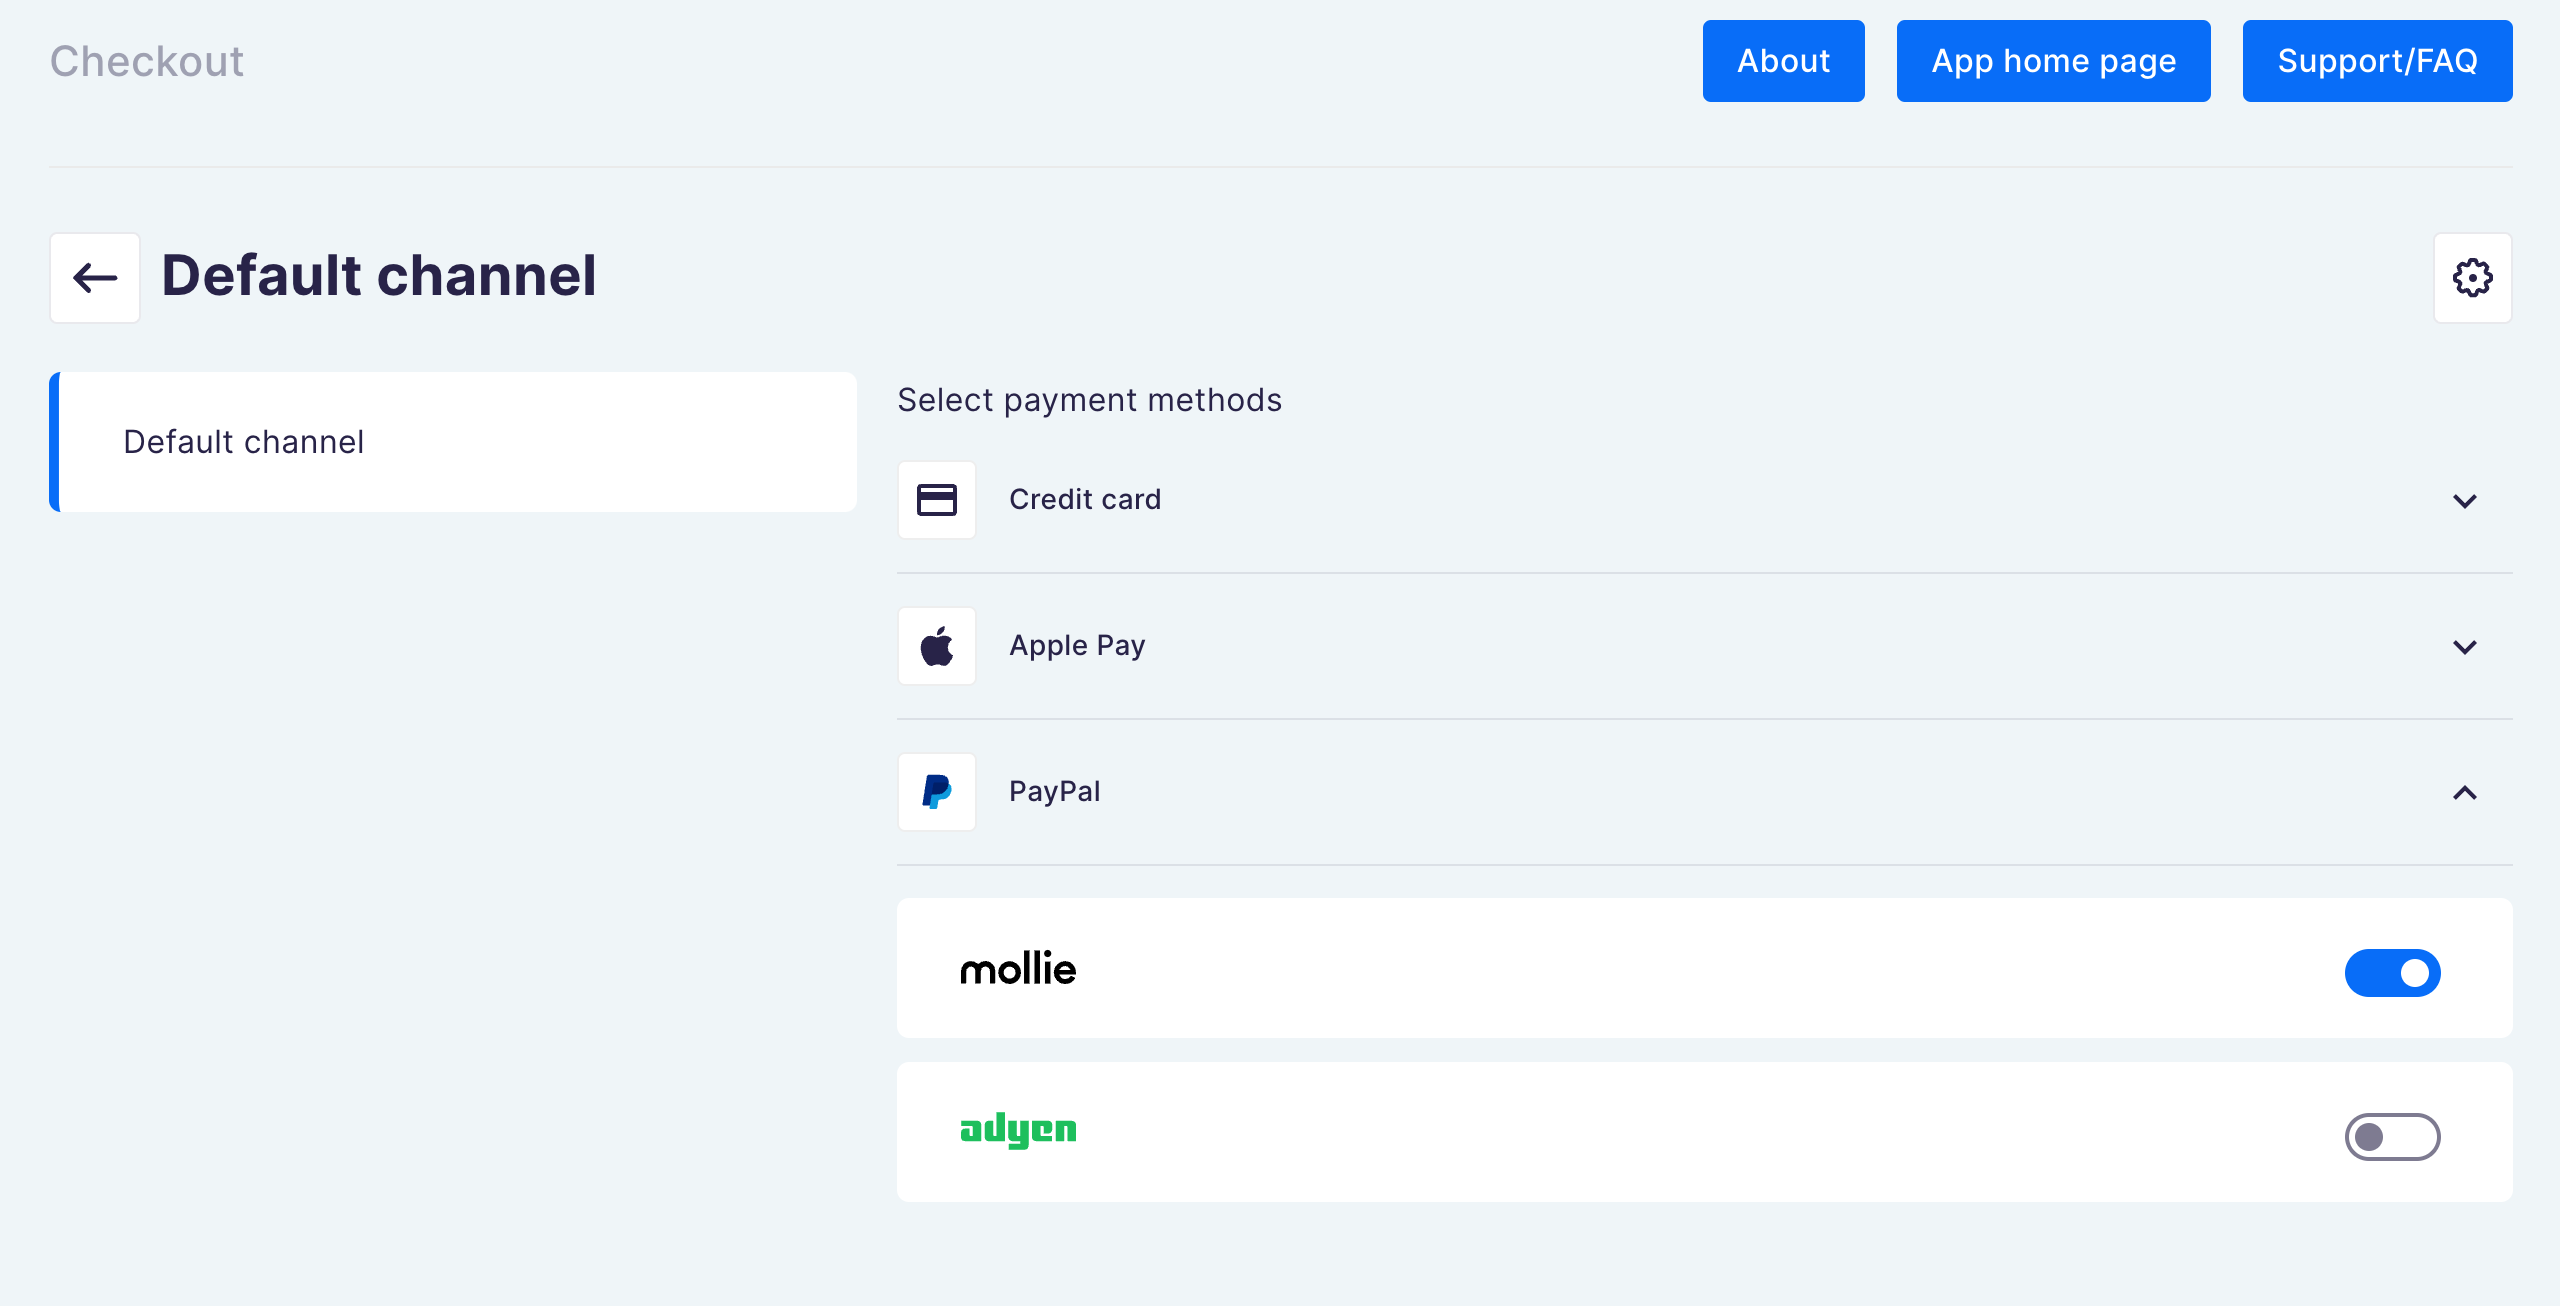
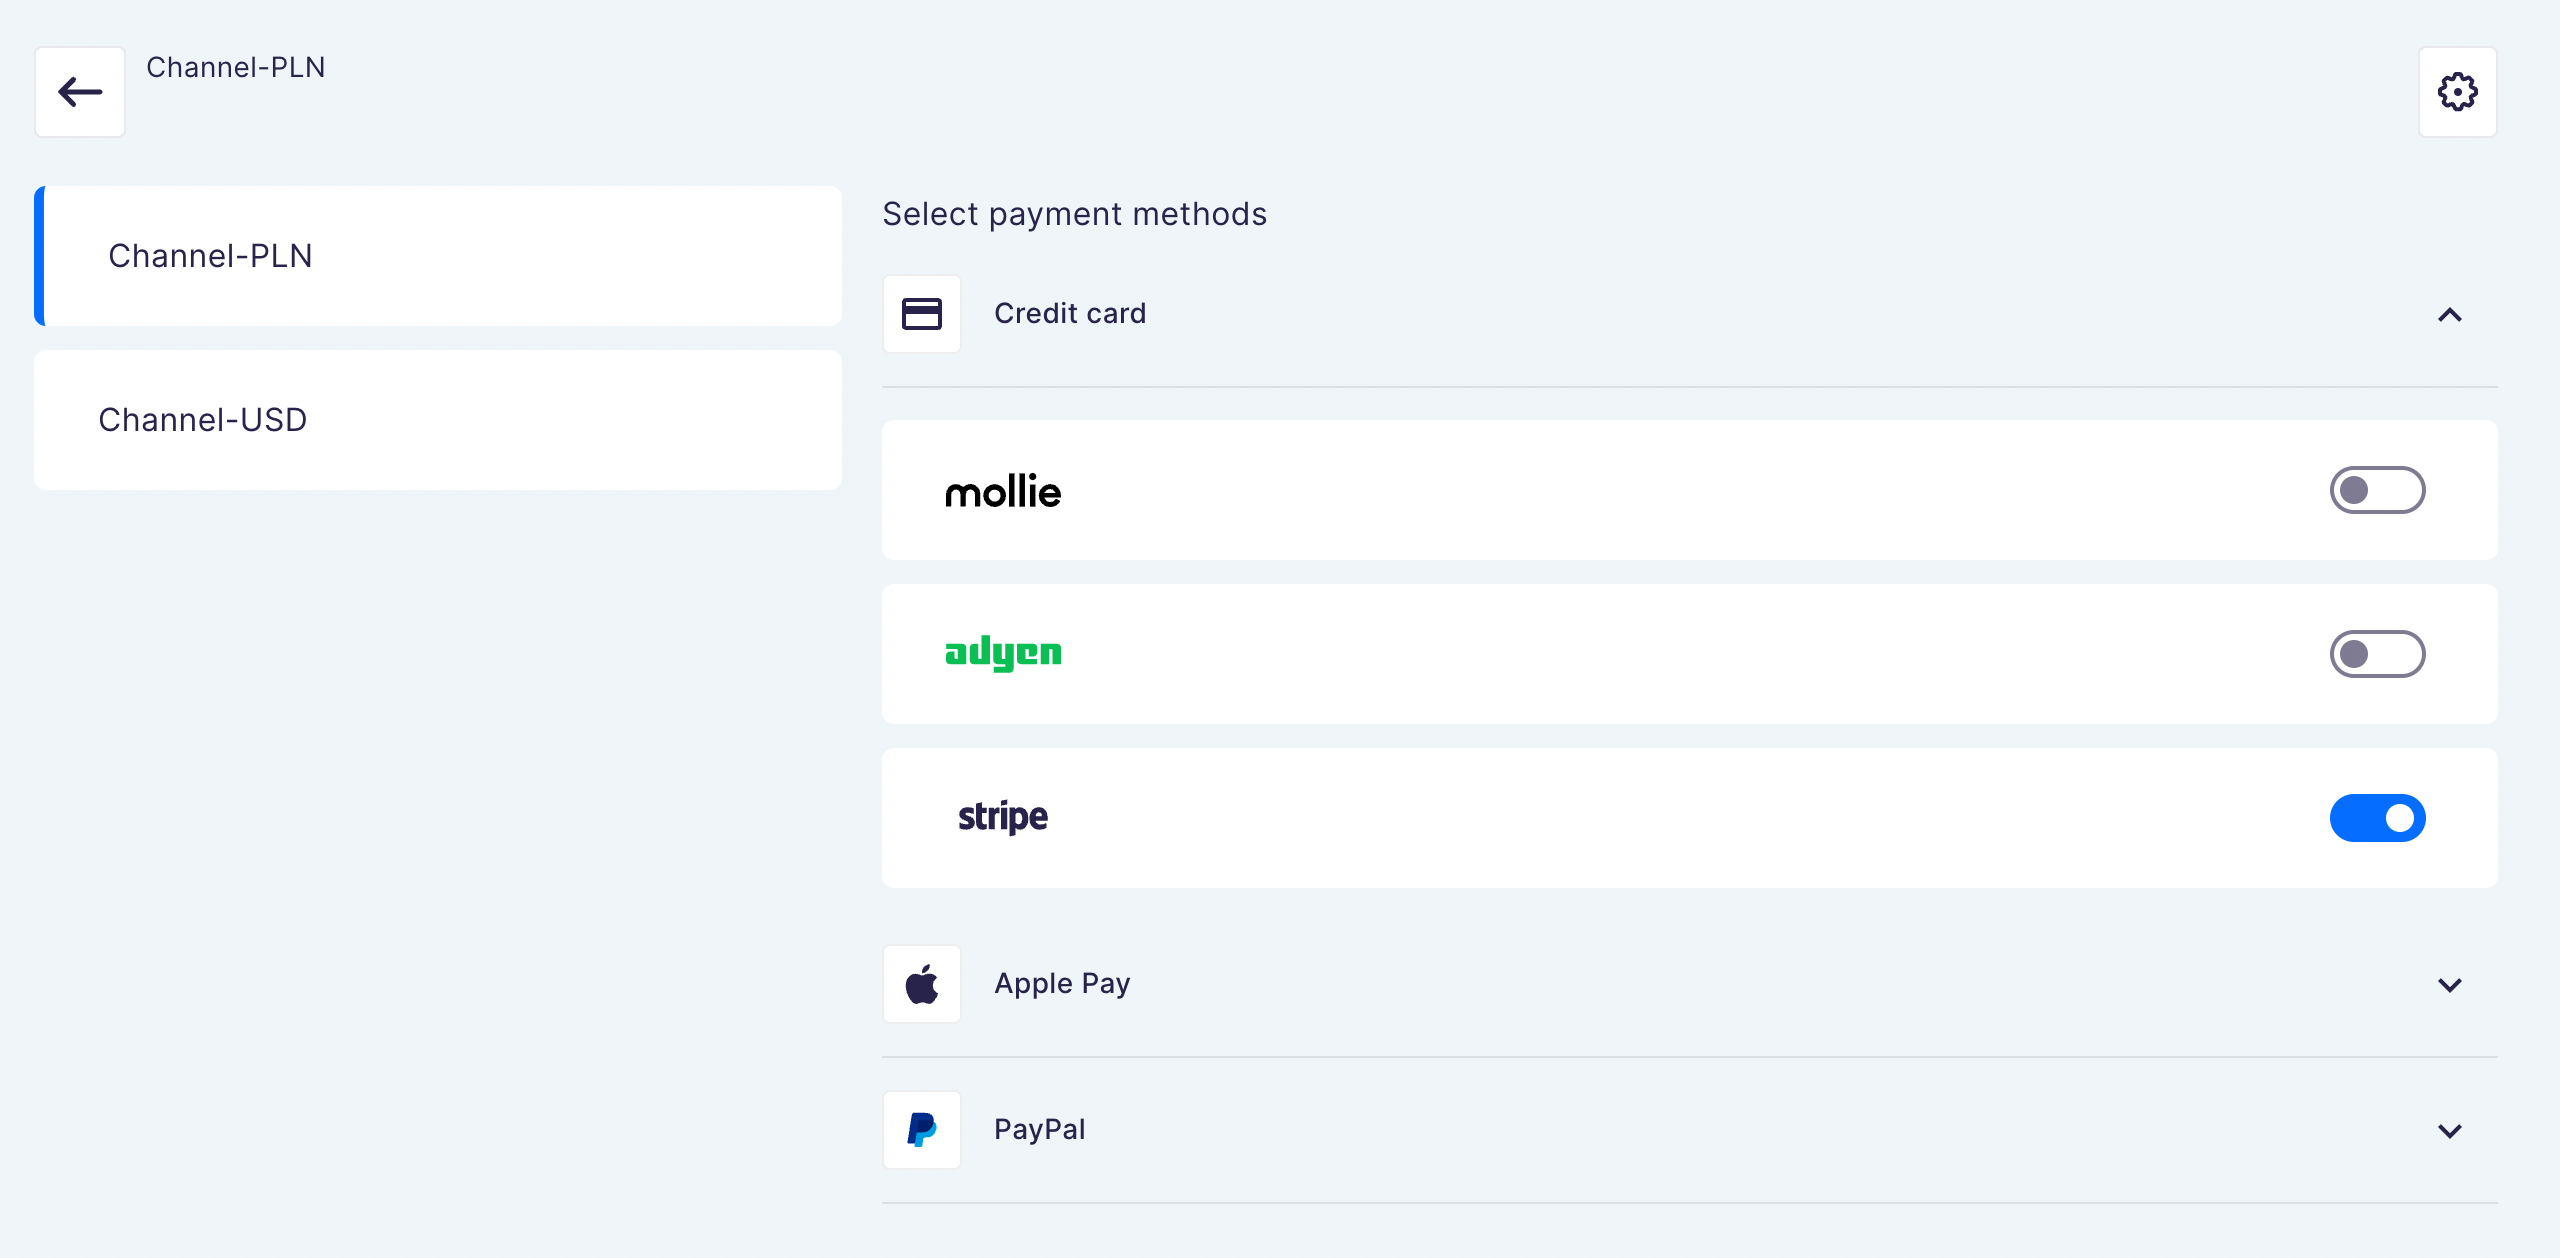
Add stripe docs

diff --git a/docs/payment/stripe.md b/docs/payment/stripe.md
@@ -1,0 +1,49 @@
+# Stripe setup guide
+
+In this guide we'll setup [Stripe](https://stripe.com) payment gateway with Saleor Checkout.
+
+## Setup
+
+1. [Sign up for a Stripe account](https://dashboard.stripe.com/register)
+
+2. Make sure you've enabled at least 1 payment provider in Mollie dashboard (Settings > Payment methods):
+
+![Getting to settings in Stripe dashboard](../screenshots/setup-stripe-1.png)
+![Getting to payment providers in Stripe settings](../screenshots/setup-stripe-2.png)
+![At least one payment method is enabled on Payment methods page](../screenshots/setup-stripe-3.png)
+
+> Note: Don't worry about "Activation required Please activate your account before accepting live payments with any of the below payment methods." message if you only want to test. Enabled payment methods will still work in test mode, even without completing verification of your Stripe account
+
+3. In your Stripe dashboard, select: Developers -> API keys and copy **Publishable key** and **Secret key**
+
+- **Live API key** - for production environment
+- **Test API key** - for development environment
+
+4. Go to Webhooks section in Stripe dashboard (Developers -> Webhooks). You can configure webhooks for your live environment or test them locally.
+
+- For local development, follow the instructions you see on the screen. `stripe` CLI installation will be required.
+- For live environment, you'll need to configure webhooks manually. Click **Add an endpoint** and fill out the form. The endpoint for Stripe webhooks is `<YOUR_CHECKOUT_APP_URL>/api/webhooks/stripe`. Make sure you add the following events:
+  - `checkout.session.completed`
+  - `checkout.session.async_payment_failed`
+  - `checkout.session.async_payment_succeeded`
+  - `checkout.session.expired`
+
+![Webhook configuration](../screenshots/setup-stripe-webhook-1.png)
+
+5. Click "Add endpoint" and then "Reveal secret" to get the webhook secret. You'll need it in the next step.
+
+![Reveal webhook secret](../screenshots/setup-stripe-webhook-2.png)
+
+6. Go to Checkout app configuration and enter the data you've just copied
+
+Configuration page can be found in Saleor dashboard in: **Apps > Third party apps > Checkout**. Once you open the app, select one of the channels and click the gears icon:
+
+![Payment gateway configuration in Saleor dashboard](../screenshots/config-dashboard-2.png)
+
+To configure the API keys choose "Stripe" from left side navigation and paste what you've copied from Stripe dashboard:
+
+![Stripe config inside Saleor dashboard after env variable and profile id were pasted](../screenshots/config-dashboard-stripe.png)
+
+7. 🏁 You've finished the configuration! Now you can enable Stripe for one of your Saleor channels in app configuration:
+
+![Payment method configuration in Saleor dashboard](../screenshots/config-dashboard-1.png)

diff --git a/README.md b/README.md
@@ -30,7 +30,7 @@
 🏎 **modern & fast**:
 The project utilizes all the best practices for e-commerce, like SSR, ISR, and image optimization.
 
-💳 **integrated payments**: 
+💳 **integrated payments**:
 Reduce the purchase friction by taking advantage of integrations with modern payment providers such as Adyen, Mollie or Stripe.
 
 🛠 **easily customizable**:
@@ -73,17 +73,21 @@ saleor storefront create --demo
 ---
 
 ## Development
+
 First install [`pnpm`](https://pnpm.io/) (an alternative to `npm`, focused on performance) globally:
+
 ```
 npm install -g pnpm
 ```
 
 Then install dependencies:
+
 ```
 pnpm i
 ```
 
 To start the servers, run:
+
 ```
 pnpm dev
 ```
@@ -94,7 +98,7 @@ Read more about development in [docs/development.md](./docs/development.md).
 
 ## Payment gateways
 
-Saleor App Checkout supports two configurable payment gateways:
+Saleor App Checkout supports three configurable payment gateways:
 
 <a href="https://www.mollie.com/en">
   <picture>
@@ -107,6 +111,8 @@ Saleor App Checkout supports two configurable payment gateways:
 <br>
 
 [![Adyen](./docs/logos/adyen.svg)](https://www.adyen.com/)
+
+[![Stripe](./docs/logos/stripe_blurple.svg)](https://stripe.com/)
 
 For further information, please go to [docs/payment/index.md](./docs/payment/index.md).
 

diff --git a/docs/payment/index.md b/docs/payment/index.md
@@ -18,6 +18,12 @@ Read setup guide in [docs/payment/mollie.md](../payment/mollie.md)
 
 Read setup guide in [docs/payment/adyen.md](../payment/adyen.md)
 
+<br>
+
+[![Stripe](./../logos/stripe_blurple.svg)](https://stripe.com/)
+
+Read setup guide in [docs/payment/stripe.md](../payment/stripe.md)
+
 ---
 
 You can configure the payment gateways in the Saleor App Checkout inside the Saleor dashboard.
